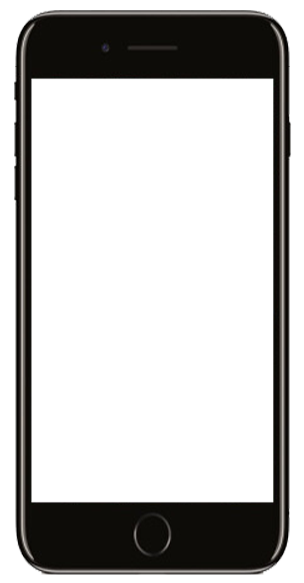
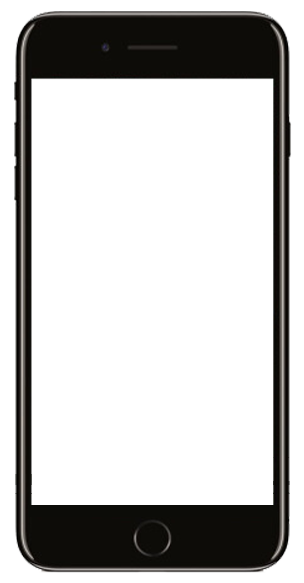
fix:iphone8

diff --git a/src/views/layout/Layout.scss b/src/views/layout/Layout.scss
@@ -60,10 +60,10 @@
                      //  overflow: hidden;
                      //  width: 95px;
                      .show-iframe {
-                         width: 332px;
+                         width: 343px;
                          overflow-x: hidden;
                          margin-top: 104px;
-                         height: 584px;
+                         height: 581px;
                          margin-right: -5px;
                          overflow-y: auto;
                      }
